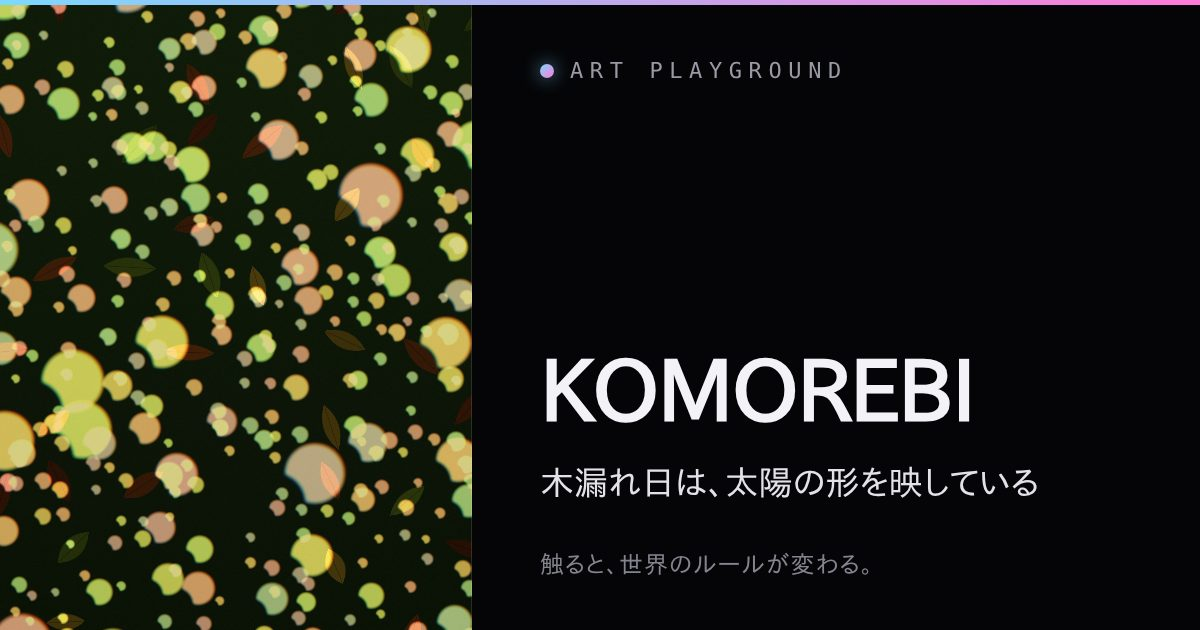
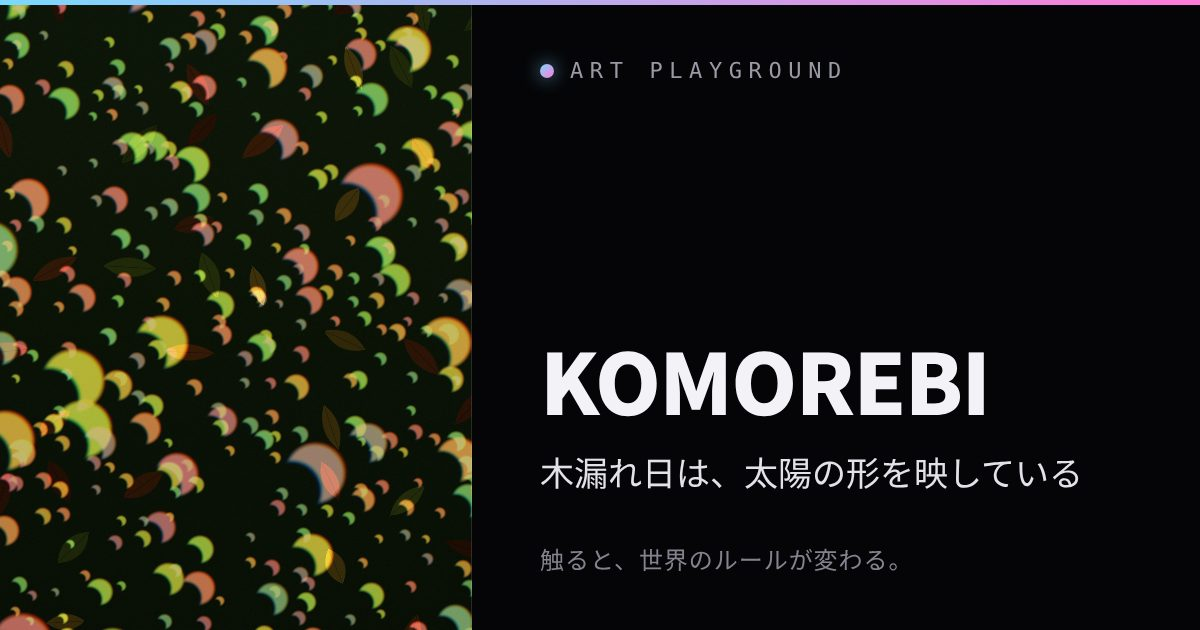
KOMOREBI: default cycle 60s -> 30s
Claude-Session: https://claude.ai/code/session_019C65K4UZ4nh7krpN8HmEzT

diff --git a/art-v115-komorebi.html b/art-v115-komorebi.html
@@ -67,9 +67,9 @@ let W=1,H=1,scale=1,t=0,last=0,alive=true,touched=false,slow=0,seed=0,held=null;
 /* 日食が1周する長さ(秒)。☰のメニューで決め、端末に保存する。?sec=90 のようにURLでも指定できる */
 const CHIPS=[30,60,180,300,600];
 function fmtSec(v){return v>=120?(v%60===0?(v/60)+'分':(v/60).toFixed(1)+'分'):v+'秒'}
-let cycle=60;
+let cycle=30;
 try{const q=parseFloat((new URLSearchParams(location.search)).get('sec'));const sv=parseFloat(localStorage.getItem('komorebi-cycle'));
-  cycle=q>0?q:(sv>0?sv:60)}catch(_){}
+  cycle=q>0?q:(sv>0?sv:30)}catch(_){}
 cycle=Math.max(5,Math.min(3600,cycle));
 /* 指定した時刻までのカウントダウン。until={s:開始のms, t:目標のms, label:'14:30'}。日食は、開始(欠け始め)から目標時刻(欠けの終わり)に合わせて進む */
 /* バス(パレット・ライド 通常ダイヤ)。停留所の順は、巡回の順(①→②→③→④→⑤)。[時,分,注記]。出典: schedule_20261030_1.pdf。運行は12時台〜17時台のみ。予告なく変更・遅延することがある */

diff --git a/CHANGELOG.md b/CHANGELOG.md
@@ -1,3 +1,4 @@
+- 2026-11-03 クロちゃん: KOMOREBIの日食が1周する長さの初期値を60秒→30秒に変更(おっちゃん「デフォルト30秒にして」)。`?sec=`や隠しメニューで決めた値、端末に保存済みの値はそのまま優先される(「1分待機」は60秒のまま)。作品を変えたのでポスターとOGPカードを作り直し(`gen_posters.py`の結果OK・明るさ37)。OGPは以前から古い扱いだったKOMOREBIの分もこれで更新。`gen_og.py --check`に残るCHROMA DRIFTの「古い」は、この環境で撮影に失敗するため以前から(今回と無関係)。ヘッドレスChromiumで初期値30・`?sec=90`で90・エラーなしを確認(art-v115-komorebi.html, posters/, og/, CHANGELOG.md)
 - 2026-11-03 クロちゃん: FOIL LAWを採用・art-v116として昇格し、CURRENTに設定、録画の対象にも追加(おっちゃん「OK 採用でカレントへ 録画も 許可の注意書きもね」)。`prototypes/foil-law.html`をコピーしてap-kit.jsの相対パスをルート用に直し、冒頭に昇格の注記を追加(試作版は残す)。許可の注意書き: iPhoneで最初に出るヒントを「触れると「動きと方向」の許可が出ます/許可すると、傾けて光らせられます(許可しなくても遊べます)」に変更し、許可を拒否したときは「傾きは使えません/指でなぞると、光を動かせます」を5秒出す(以前は拒否しても「傾けて光を探す」が出てしまっていた)。ヒントの位置を、ギャラリーの右上ボタン(録画・共有・✕)と重ならないよう少し下げた。それまでのCURRENTだったSILVER TURN(v112)はLOGのRING DIAL(v113)の直下(並び順を保つ位置)へ移し、Published worksは先頭をFOIL LAWにしてSILVER TURNを同じ位置へ。`META`に操作ヒント「触れて法則を置く。傾きを許可すると光が動く」を1行追加、`REC_WORKS`に`art-v116-foil-law.html`を追加(Android ChromeのUA・390×844のヘッドレスChromiumで、ギャラリーから開き、本物の録画ボタン→タップ・なぞり→停止を通し、mp4(720×1558・約6秒)に箔と2行の透かしが映ることを確認。許可の注意書きは、iOSのrequestPermissionを許可/拒否に差し替えて両方の文言と、コンソールエラーが無いことを確認)。sitemap.xmlに`/art-v116-foil-law`を追加。`tools/poster-config.json`に`hide:#hint`・タップ1回・待ち2.5秒を追加し、ポスター(ヒーロー含む)とOGPカードを生成、`gen_posters.py --check`は終了コード0(文字が写らず虹色の箔が写っていることを目視で確認)。`gen_og.py --check`は、今回と無関係のKOMOREBIとCHROMA DRIFTが以前から「古い」のまま(この環境ではCHROMA DRIFTの撮影が失敗するため。KOMOREBIの画像は今回は作り直さず元のまま)。**スマホ実機での傾きの見え方・録画中の重さは未確認**(WebGL2、全ピクセルでファセット4階層。重ければ`REC_WORKS`から外す)(art-v116-foil-law.html, prototypes/foil-law.html, index.html, posters/, og/, tools/poster-config.json, sitemap.xml, CHANGELOG.md)
 - 2026-11-03 クロちゃん: FOIL LAW 修正(おっちゃんiPhone実機「この丸いタッチ効果が要らないね」)。タップの光の輪と、輪に沿って丸く切り替わる波をすべて外した。タップした所に新しい法則がすぐ現れ、周りとの境目は継ぎ目の線で分かれるだけにした(✦/↻も同じ)。使わなくなった波・輪のコードも削除。ヘッドレスChromium(スマホ幅)で最初の絵・タップ直後・1.5秒後・✦後を確認、輪が残っていないこと・コンソールエラーなしを確認。iPhone/Androidの実機での傾きの見え方と重さは未確認。
 - 2026-11-03 クロちゃん: FOIL LAW 修正(おっちゃんiPhone実機「星？も要らないわ」)。星のきらめきも外した(ラメの粒は直前に削除済み)。キラキラ系の飾りはすべて無くし、箔の色・光(傾きで動く回折色とファセットの反射)と、傾きで流れる艶の帯だけにした。タップの輪は淡い光の輪のみ(輪が通った所から新しい法則に変わる動きは変更なし)。使わなくなった星用のコードも削除。ヘッドレスChromium(スマホ幅)で最初の絵・タップ直後・数秒後・✦後を確認、エラーなし。実機の見た目は未確認。ギャラリー未登録 (prototypes/foil-law.html, CHANGELOG.md)
